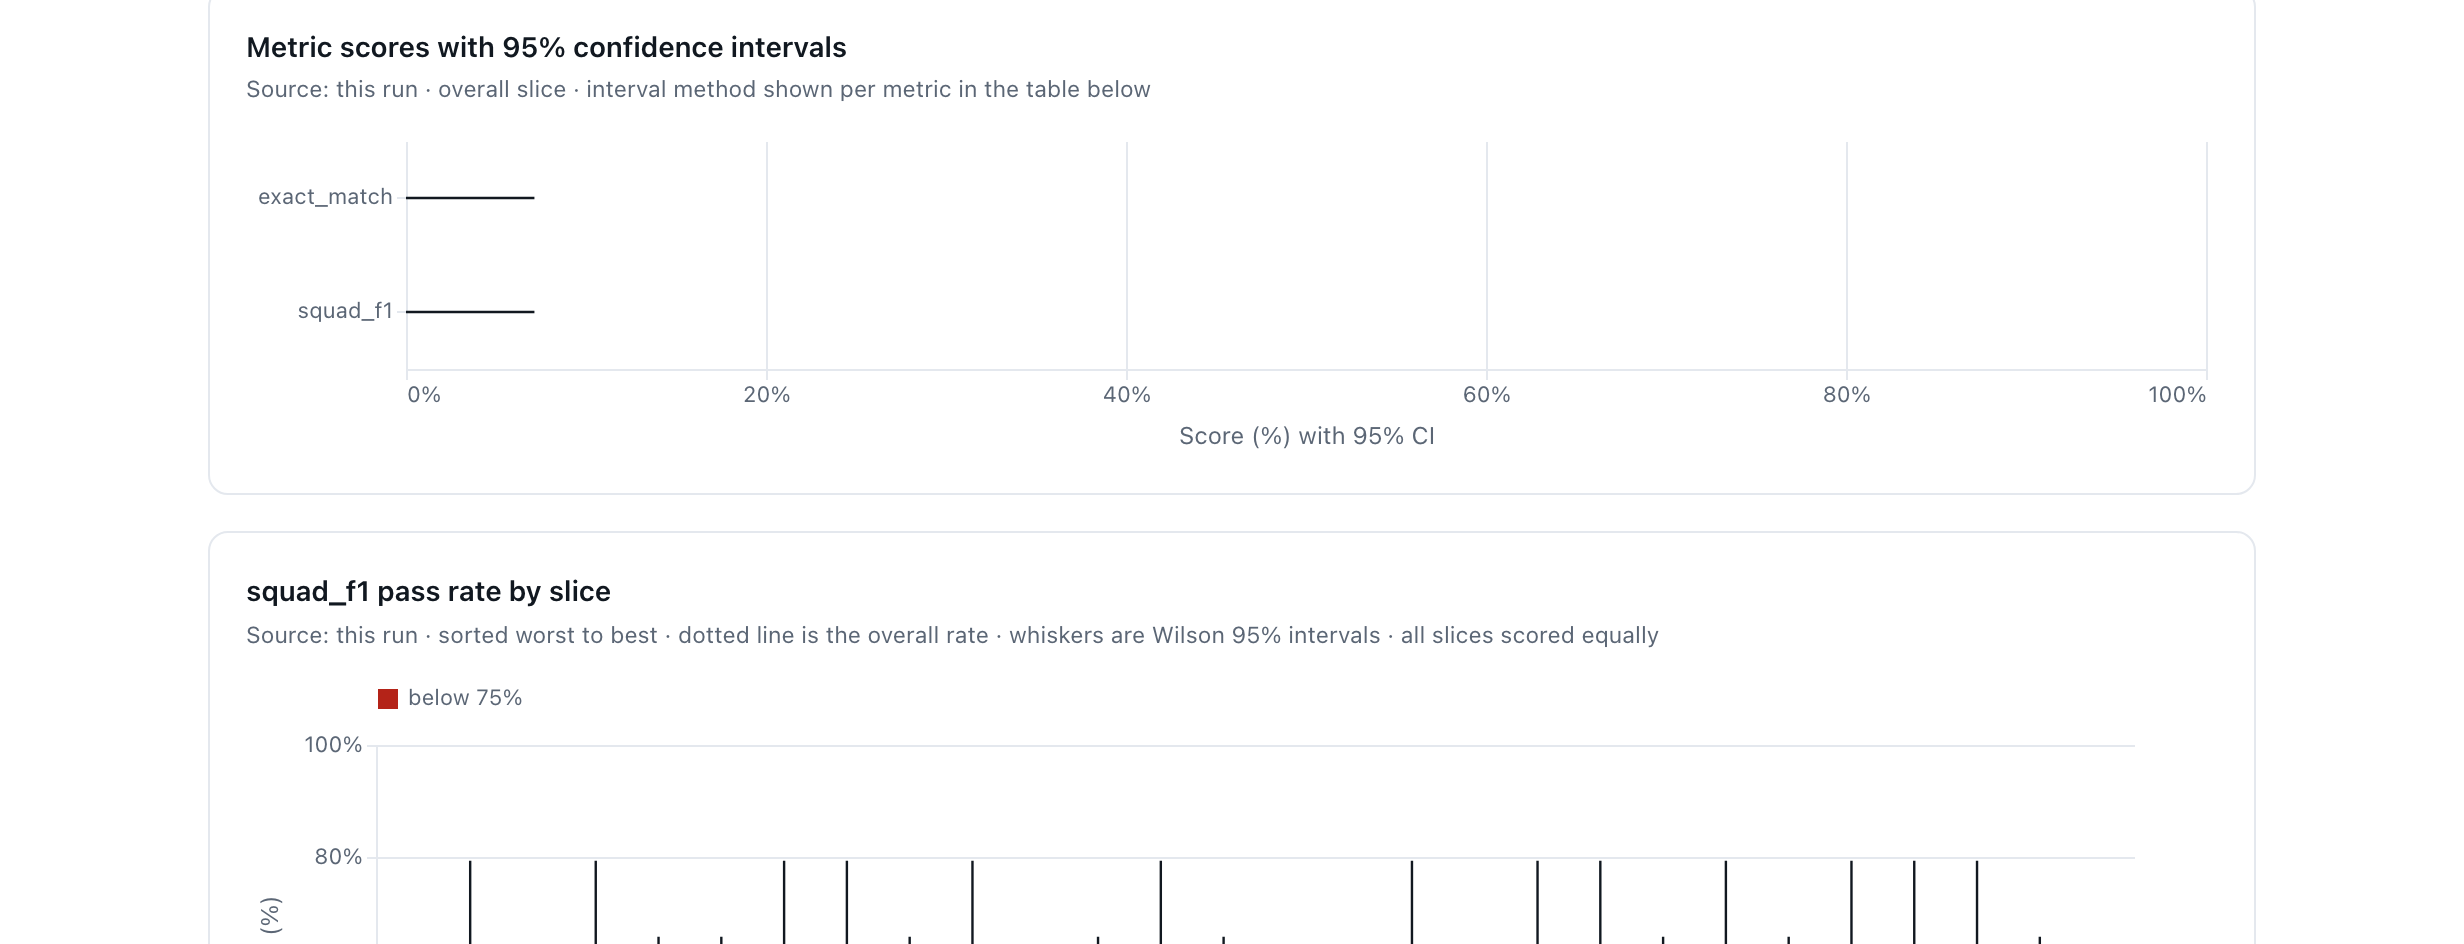
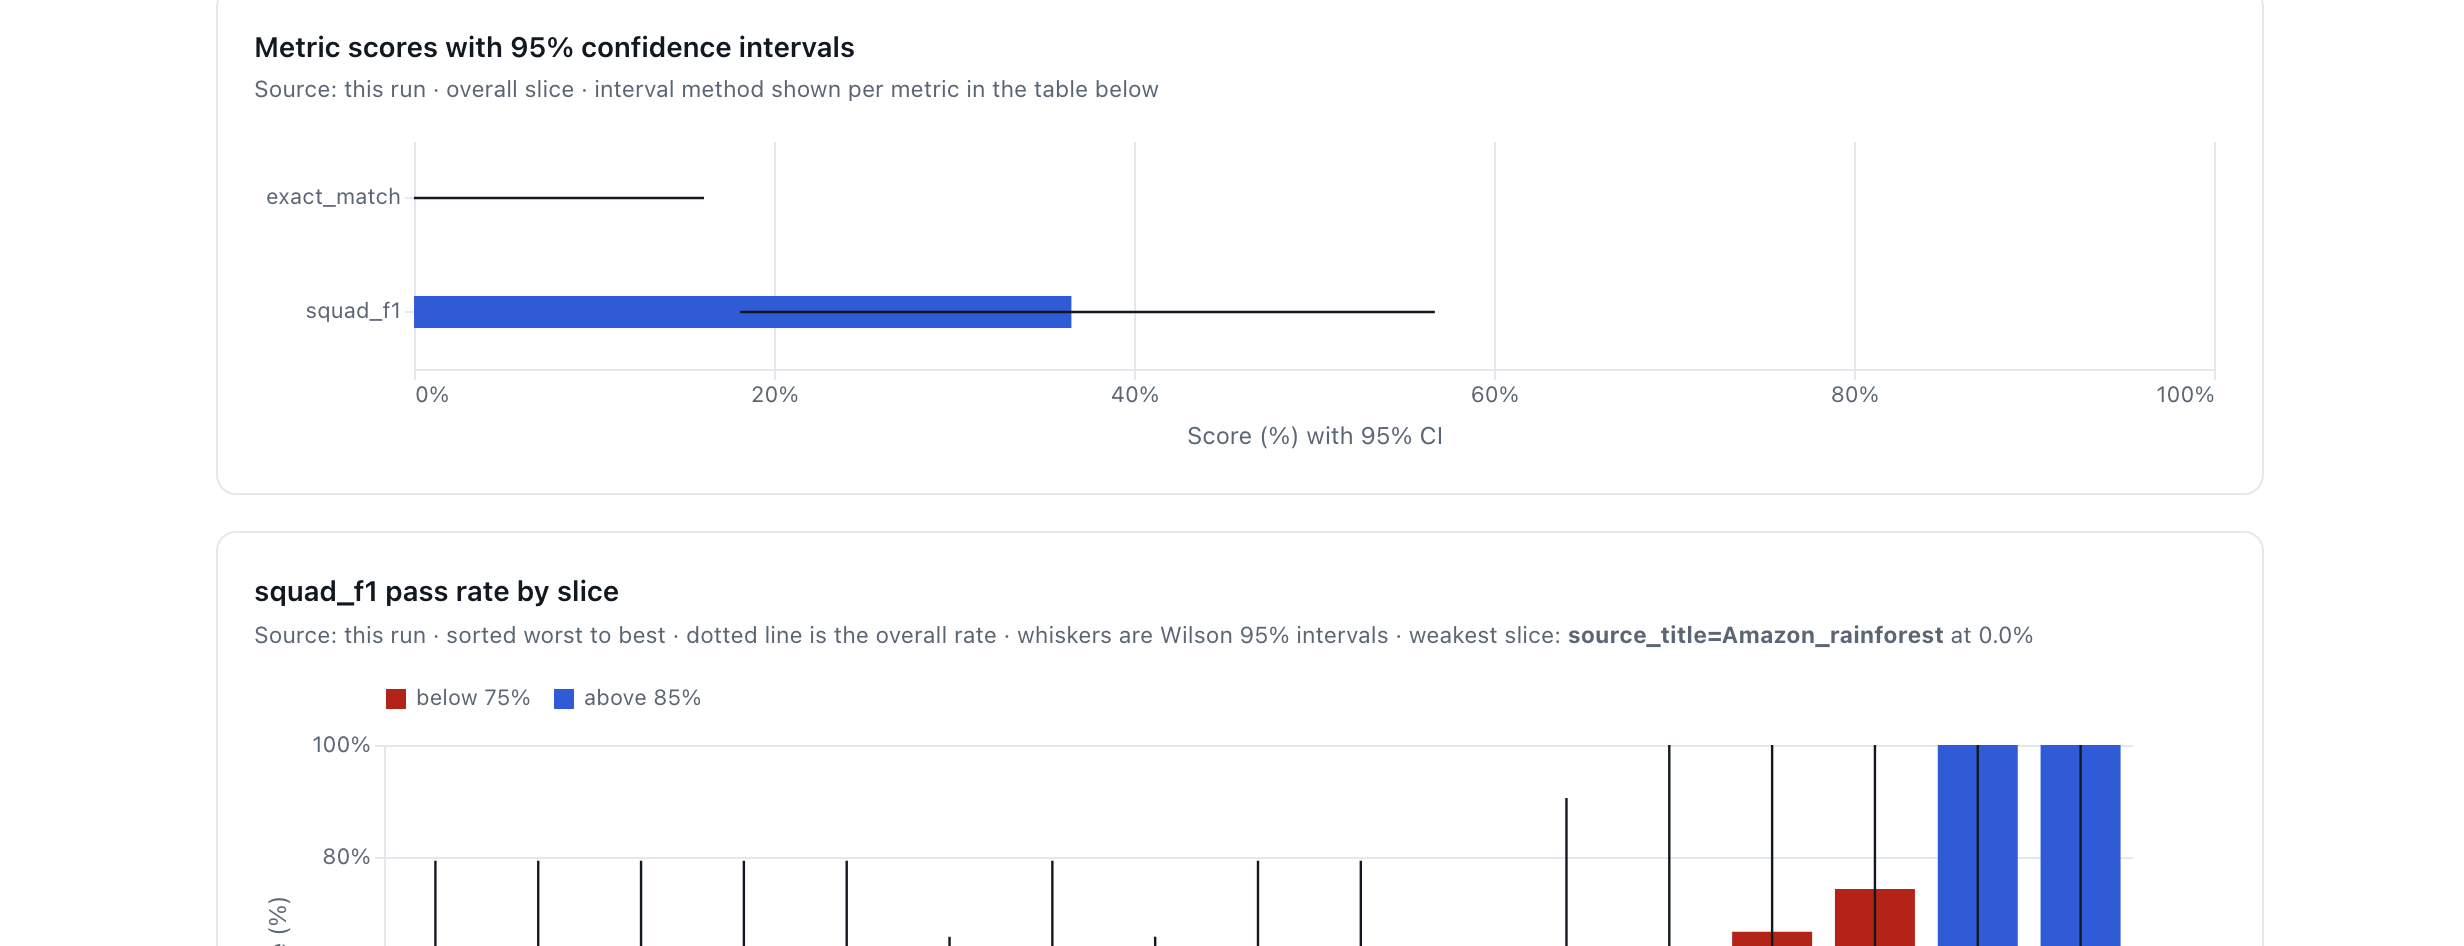
docs: Ollama E2E screenshots with per-metric README guides
Regenerate dashboards from llama3.2:1b runs on SQuAD, AG News, and
synthetic metric families, and explain how to interpret each chart.

diff --git a/README.md b/README.md
@@ -41,76 +41,159 @@ Harness failures (a provider timing out, garbage output) are counted separately 
 
 ## What the reports look like
 
-Every run emits a self‑contained HTML dashboard (Altair / Vega‑Lite, no CDN). The
-screenshots below were regenerated from **real-world cache-only packs** (SQuAD
-v1.1 extractive QA and AG News topic classification) plus a multi-member suite,
-all driven with the deterministic **mock** provider so the demo stays offline and
-reproducible. Mock answers are intentionally wrong on these corpora (pass rate
-near zero); the dashboards still show publishability, coverage, CIs, slices, and
-latency the same way a live Ollama or OpenAI‑compatible run would.
+Screenshots below come from a **full Ollama end-to-end pass** (`llama3.2:1b`) over
+cache-only **SQuAD v1.1** and **AG News** packs plus synthetic fixtures that
+exercise other metric families. Artifacts live under `reports/demo/ollama/`
+(gitignored). Reproduce with Postgres + Ollama up, then:
 
-Reproduce the fetch → pin → materialize → run → compare → suite path with
-[`scripts/demo_realworld.sh`](scripts/demo_realworld.sh) (writes under `.cache/`
-and `reports/demo/`; snapshots stay out of git).
+```bash
+docker compose up -d postgres ollama
+ollama pull llama3.2:1b
+./scripts/demo_realworld.sh --provider ollama --model llama3.2:1b
+```
 
-### Real-world single-run dashboards
+Numbers cited are from that run (small smoke packs, 1B model). They illustrate
+how to read the UI, not a claim about SOTA quality.
 
-**SQuAD v1.1** (50-case CI pack, `squad_f1` / `exact_match`):
+### Publishability and KPIs
 
-<img src="docs/assets/realworld-squad-dashboard.png" alt="SQuAD v1.1 evaluation dashboard from a mock provider CI pack" width="900" />
+<img src="docs/assets/kpi-publishability.png" alt="KPI strip: pass rate with Wilson CI, coverage, cost, latency p95" width="900" />
 
-**AG News** (50-case CI pack, `classification`):
+**How to read it.** The green badges are harness honesty gates, not model
+quality: run completed, all planned generations written, coverage at or above
+the floor (here 98%). **Pass rate** is the fraction of scored cases that pass
+the primary metric, with a **Wilson 95% CI**. Wide intervals on small `n` are
+expected. Coverage near 100% with a low pass rate means the pipeline worked and
+the model simply scored poorly (or the metric is strict). Cost stays honest
+when the provider reports pricing; unpriced generations fail closed on money
+gates elsewhere.
 
-<img src="docs/assets/realworld-agnews-dashboard.png" alt="AG News classification evaluation dashboard from a mock provider CI pack" width="900" />
+### Extractive QA (`squad_f1`, `exact_match`)
 
-### Suite dashboard (real-world + synthetic members)
+SQuAD v1.1 smoke pack (20 cases). Primary metric `squad_f1` pass rate **35%**
+(Wilson 95% CI about 18–57%). Exact match was harder on this 1B model: F1 can
+credit partial token overlap while EM requires a normalized string match.
 
-`evalctl suite build` folds SQuAD, AG News, and synthetic members into one
-leaderboard (coverage matrix, primary metrics, latency):
+<img src="docs/assets/realworld-squad-dashboard.png" alt="Ollama SQuAD dashboard showing non-zero squad_f1 pass rate" width="900" />
 
-<img src="docs/assets/realworld-suite-dashboard.png" alt="Suite dashboard mixing SQuAD, AG News, and synthetic members" width="900" />
+![Metric scores with 95% CI for squad_f1 and exact_match](docs/assets/chart-metric-scores.png)
 
-Chart close‑ups from the same suite:
+**How to read it.** Each bar is a metric×slice (or overall) point estimate with
+an error bar for the CI method labeled on the report (Wilson for rates). Compare
+metrics on the same cases: if `squad_f1` rises while `exact_match` stays flat,
+the model is getting closer without hitting exact strings. Do not treat the CI
+midpoint as a leaderboard score without `n`.
+
+![Sampled SQuAD cases with reference vs model output](docs/assets/metric-qa-sampled-cases.png)
+
+**How to read it.** Sampled cases are for debugging, not the denominator. Check
+whether failures are empty answers, verbose answers that hurt EM, or wrong
+spans. Latency per case sits beside the score so slow outliers are visible.
+
+### Classification (`classification`)
+
+AG News smoke (20 cases) with constrained label output. On `llama3.2:1b` this
+pass rate was **0%** (CI up to ~16%): the small model often fails to emit an
+exact allow-listed label even when the topic is clear.
+
+<img src="docs/assets/metric-classification-dashboard.png" alt="AG News classification dashboard under Ollama" width="900" />
+
+**How to read it.** Classification here is fail-closed on the label set: near
+misses and free-form prose count as wrong. Low pass rate with high coverage
+points to prompt or model capability, not a broken runner. Slice charts (when
+present) show whether one domain drives the miss rate.
+
+### Numeric assertion (`numeric_assertion`)
+
+Synthetic finance and math packs (final number only). Observed pass rates on
+this run: finance **20%**, math **40%** (wide CIs at `n=5`).
+
+<img src="docs/assets/metric-numeric-dashboard.png" alt="Numeric assertion dashboard for synthetic math under Ollama" width="900" />
+
+![Finance numeric_assertion run](docs/assets/run-finance-slices.png)
+
+**How to read it.** The metric extracts a final numeric answer and compares it
+to the reference. Extra prose usually fails. Use these packs to verify that
+decode limits and prompts keep the model in "number only" mode before you trust
+a larger finance corpus.
+
+### Summarization overlap (`rouge_l`, `chrf_pp`)
+
+Synthetic summarization smoke. Primary `rouge_l` pass rate **60%** on this run
+(CI roughly 23–88% at `n=5`).
+
+<img src="docs/assets/metric-summarization-dashboard.png" alt="Summarization dashboard with rouge_l under Ollama" width="900" />
+
+**How to read it.** ROUGE/chrF are overlap metrics, not factuality judges. A
+high score can still hallucinate; a low score can still be faithful but
+paraphrased. Pair them with RAG/judge signals when truthfulness matters.
+
+### Structured extraction (`json_validity`, `json_field_f1`)
+
+Synthetic extraction smoke. Primary `json_validity` was **0%** here: the 1B
+model did not reliably emit parseable JSON under the constrained template.
+
+<img src="docs/assets/metric-extraction-dashboard.png" alt="JSON extraction dashboard under Ollama" width="900" />
+
+**How to read it.** `json_validity` is a gate on well-formed JSON; field F1
+scores content only after parse succeeds. Zero validity means field F1 never
+gets a fair shot. Fix schema prompting or use a stronger model before tuning
+field-level scores.
+
+### Slices and reliability
+
+![Pass rate by slice](docs/assets/chart-slice-pass-rate.png)
+
+**How to read it.** Bars are pass rate within a slice key (for SQuAD, often
+`domain` / `source_title`). A flat low chart means uniform weakness; a few tall
+bars mean the headline number hides concentration in easy slices.
+
+![Generation outcomes and harness vs model failures](docs/assets/chart-outcome-breakdown.png)
+
+**How to read it.** Reliability separates **model** outcomes from **harness**
+failures (timeouts, provider errors). Harness failures are excluded from the
+quality denominator so infra blips do not look like worse accuracy.
+
+### Latency and cost
+
+![Latency percentiles](docs/assets/chart-latency-percentiles.png)
+
+**How to read it.** Prefer p50/p95/p99 over the mean. On this Ollama SQuAD
+smoke, p95 was about **2.4 s** per generation. Spikes at p99/max flag tail
+latency under concurrency. Cost KPIs stay blank or zero when the provider does
+not report price; that is intentional honesty, not "free."
+
+### Suite rollup (multi-metric leaderboard)
+
+`evalctl suite build` folds the Ollama members (SQuAD, AG News, finance, math,
+summarization, extraction, and related synthetics) into one offline HTML suite:
+
+<img src="docs/assets/realworld-suite-dashboard.png" alt="Suite dashboard across Ollama metric families" width="900" />
+
+![Suite coverage matrix](docs/assets/suite-coverage-matrix.png)
 
 ![Suite primary-metric leaderboard](docs/assets/suite-leaderboard.png)
 
 ![Suite latency by member](docs/assets/suite-latency.png)
 
-### Single‑run chart detail (SQuAD CI)
+**How to read it.** The coverage matrix answers "did every member finish
+honestly?" The primary-metric chart compares different tasks on their own
+metrics (do not average `squad_f1` with `rouge_l`). Latency by member shows
+which packs dominate wall time. Paired compares (when declared) carry deltas
+and CIs for baseline vs candidate on the **same** cases.
 
-Metric scores with 95% confidence intervals, pass rate by slice, outcomes, and
-latency percentiles:
+### Surfaces exercised (Ollama)
 
-![Metric scores with 95% CI](docs/assets/chart-metric-scores.png)
+| Surface | Result in this demo |
+|---------|---------------------|
+| `dataset materialize` / `validate` | SQuAD + AG News smoke packs from pinned snapshots |
+| `run` (`--provider ollama`) | Non-zero `squad_f1`, `numeric_assertion`, `rouge_l`; strict label/JSON still hard for 1B |
+| `runs rescore` | Zero-inference rescore of SQuAD |
+| `runs compare` | Baseline `temperature=0` vs candidate `temperature=0.2` on SQuAD |
+| `suite validate` / `build` | Eight-member suite HTML/JSON |
 
-![Pass rate by slice](docs/assets/chart-slice-pass-rate.png)
-
-![Generation outcomes](docs/assets/chart-outcome-breakdown.png)
-
-![End-to-end latency percentiles](docs/assets/chart-latency-percentiles.png)
-
-### Industry example (finance synthetic)
-
-Finance pack scored with `numeric_assertion` (mock provider):
-
-![Finance numeric_assertion dashboard](docs/assets/run-finance-slices.png)
-
-### Surfaces exercised in the demo
-
-| Surface | What we ran |
-|---------|-------------|
-| `dataset materialize` / `dataset-validate` | SQuAD + AG News smoke (20) and ci (50) packs from pinned local snapshots |
-| `run` | Mock provider on those packs + synthetic industry fixtures |
-| `runs rescore` | Zero-inference rescore of the SQuAD smoke run |
-| `runs compare` | Paired baseline vs candidate SQuAD mock configs (`--allow-compatible`) |
-| `suite validate` / `suite build` | Multi-member suite HTML/JSON |
-| `power` / `calibrate` / `score` | Sample-size, threshold calibration, and offline JSONL scoring helpers |
-
-Judge / RAG need a live chat model (Ollama was down for this screenshot pass).
-Gates / matrix CLIs are not on the default `evalctl` entry in this checkout.
-
-PoC fixture for CI remains at [`fixtures/poc/report.html`](fixtures/poc/report.html)
-(also mirrored as `docs/assets/report-dashboard.png`).
+Judge / RAG can use the same Ollama endpoint; gates / matrix CLIs are not on the
+default `evalctl` entry in this checkout.
 
 ## How it is used
 
@@ -178,9 +261,10 @@ uv run evalctl suite build --manifest suite.yaml --output suite-output
 
 ```bash
 chmod +x scripts/demo_realworld.sh
-./scripts/demo_realworld.sh
+docker compose up -d postgres ollama && ollama pull llama3.2:1b
+./scripts/demo_realworld.sh --provider ollama --model llama3.2:1b
 # snapshots + pins under .cache/datasets/ (gitignored)
-# packs under .cache/packs/; HTML/JSON under reports/demo/
+# packs under .cache/packs/; HTML/JSON under reports/demo/ollama/
 ```
 
 ### Judge and RAG evidence (informational until calibrated)
